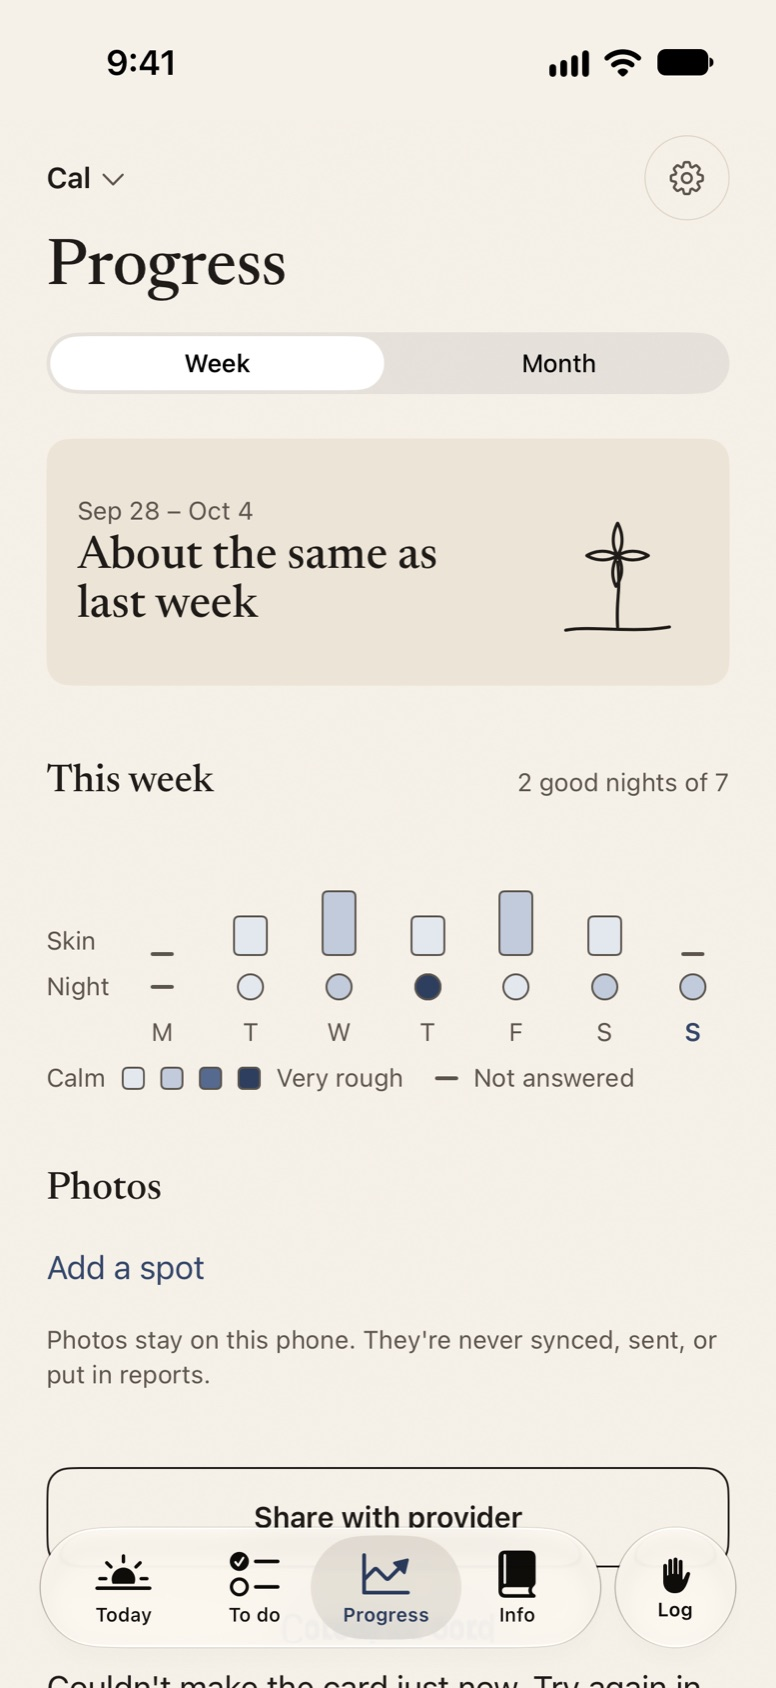
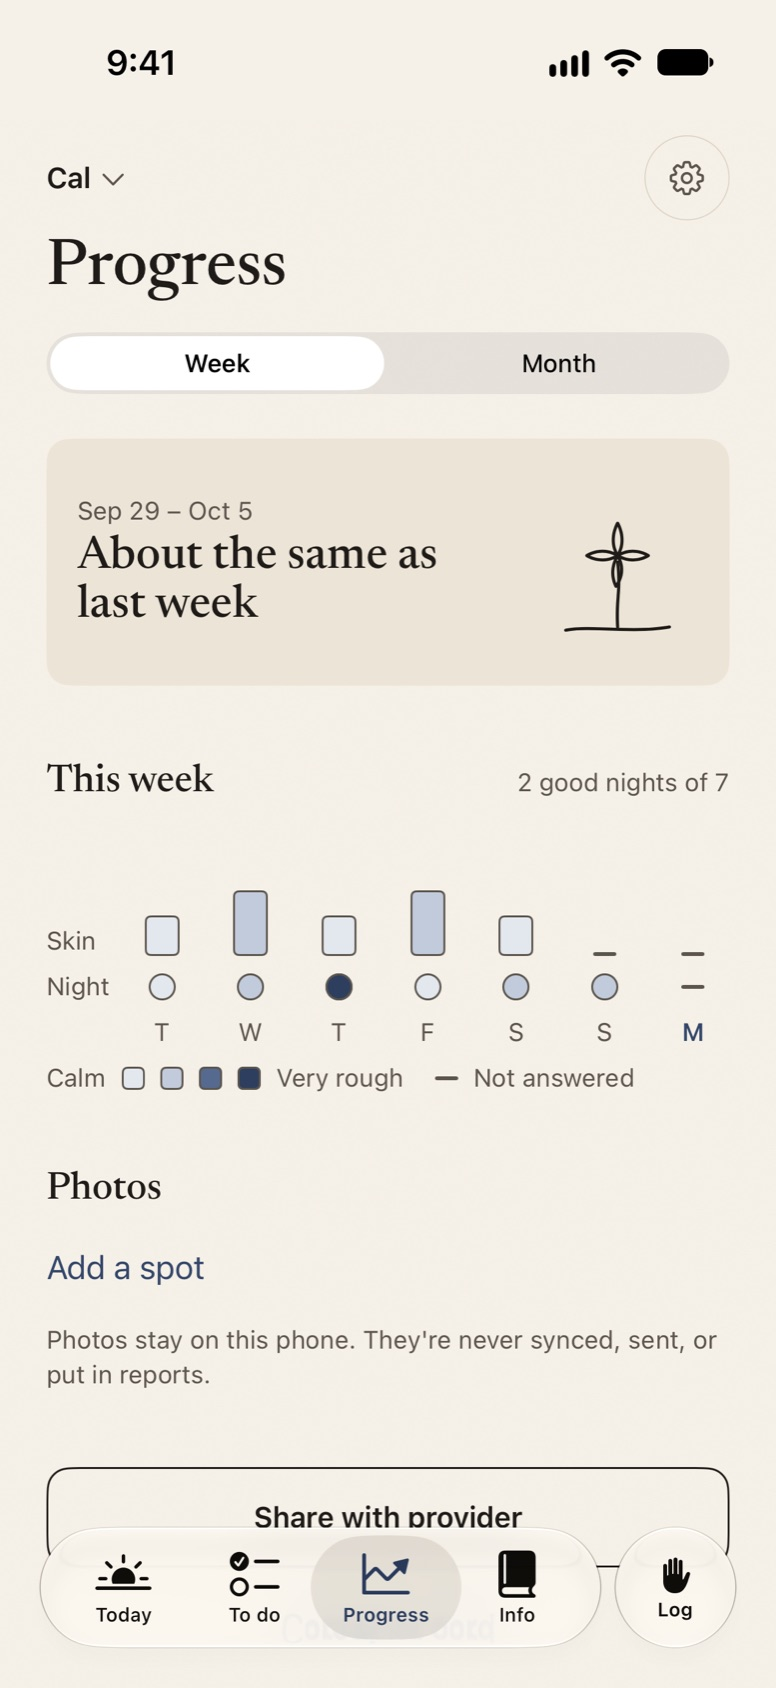
Progress: a weekly card that fails to render no longer hides the page
Rendering the shareable card can fail for a moment right as the app opens.
It used to throw out of build(), which showed "Couldn't make the card"
and skipped the Changes list. Now it retries three times, Changes load
first, and only the card's Share button waits. New Progress screenshot
on the site without the error line.

diff --git a/App/Progress/ProgressTab.swift b/App/Progress/ProgressTab.swift
@@ -199,11 +199,22 @@ struct ProgressTab: View {
             self.report = report
             let today = CareDay.containing(.now)
             monthReport = try await MonthlyReport.load(child: child, year: today.year, month: today.month, container: container)
-            file = try WeeklyCardRenderer.file(for: report)
             await loadChanges(child: child, container: container, today: today)
             problem = nil
+            file = await cardFile(for: report)
         } catch {
-            problem = "Couldn't make the card just now. Try again in a moment."
+            problem = "Couldn't load this week just now. Try again in a moment."
         }
+    }
+
+    /// The shareable card. Rendering can fail for a moment right as the app
+    /// opens, so try a few times; if it still fails, only the card's Share
+    /// button is missing, and everything else on the page still shows.
+    private func cardFile(for report: WeeklyReport) async -> URL? {
+        for attempt in 0..<3 {
+            if let url = try? WeeklyCardRenderer.file(for: report) { return url }
+            try? await Task.sleep(for: .milliseconds(400 * (attempt + 1)))
+        }
+        return nil
     }
 }
